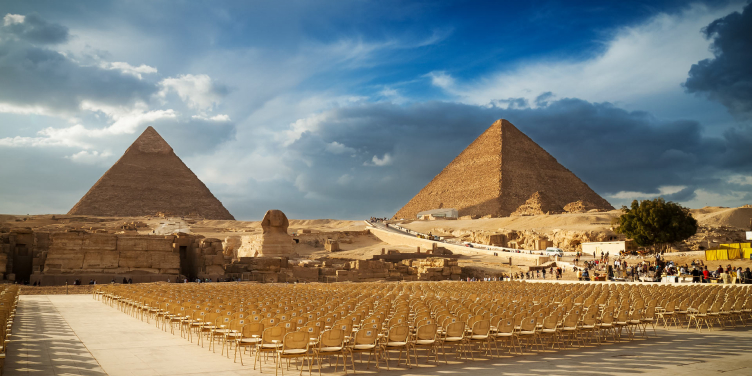
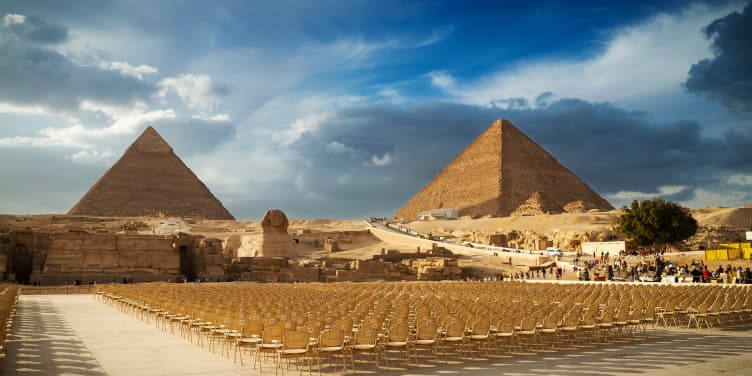
Add files via upload

diff --git a/index.html b/index.html
@@ -3,7 +3,8 @@
 <head>
   <meta charset="UTF-8">
   <meta name="viewport" content="width=device-width, initial-scale=1.0">
-  <title>Document</title>
+  <title>project-erv</title>
+  <link rel="shortcut icon" href="img/favicon/avatar1.ico" type="image/x-icon">
   <link rel="stylesheet" href="css/normalize.css">
   <link rel="stylesheet" href="css/fonts.css">
   <link rel="stylesheet" href="https://cdn.jsdelivr.net/npm/flatpickr/dist/flatpickr.min.css">
@@ -59,18 +60,34 @@
     <!-- ...............SECTION  INTRO.......... -->
     <section class="intro">
       <div class="intro__item">
-        <img src="img/intro/bg-banner1.jpg" alt="egpt">
+        <picture>
+          <source srcset="img/intro/bg-banner1.webp" type="image/webp">
+              <img src="img/transparent/ffff-0.8.png" data-src="img/intro/bg-banner1.jpg" alt="tur" class="lazyload" loading="lazy">
+        </picture>
+        <!-- <img src="img/intro/bg-banner1.jpg" alt="egpt"> -->
       </div>
 
       <div class="intro__item">
-        <img src="img/intro/bg-banner2.jpg" alt="egpt">
+        <picture>
+          <source srcset="img/intro/bg-banner2.webp" type="image/webp">
+              <img src="img/transparent/ffff-0.8.png" data-src="img/intro/bg-banner2.jpg" alt="tur" class="lazyload" loading="lazy">
+        </picture>
+        <!-- <img src="img/intro/bg-banner2.jpg" alt="egpt"> -->
       </div>
 
       <div class="intro__item">
-        <img src="img/intro/bg-banner3.jpg" alt="egpt">
+        <picture>
+          <source srcset="img/intro/bg-banner3.webp" type="image/webp">
+              <img src="img/transparent/ffff-0.8.png" data-src="img/intro/bg-banner3.jpg" alt="tur" class="lazyload" loading="lazy">
+        </picture>
+        <!-- <img src="img/intro/bg-banner3.jpg" alt="egpt"> -->
       </div>
       <div class="intro__item">
-        <img src="img/intro/bg-banner.jpg" alt="egpt">
+        <picture>
+          <source srcset="img/intro/bg-banner.webp" type="image/webp">
+              <img src="img/transparent/ffff-0.8.png" data-src="img/intro/bg-banner.jpg" alt="tur" class="lazyload" loading="lazy">
+        </picture>
+        <!-- <img src="img/intro/bg-banner.jpg" alt="egpt"> -->
       </div>
 
       <div class="intro__content">
@@ -274,7 +291,11 @@
               </div>
               <div class="advice__card-image">
                 <div class="advice__card-imgBx">
-                  <img src="img/advice/business-map1Sq2.png" alt="">
+                  <picture>
+                    <source srcset="img/advice/business-map1Sq2.webp" type="image/webp">
+                        <img src="img/transparent/ffff-0.8.png" data-src="img/advice/business-map1Sq2.png" alt="map" class="lazyload" loading="lazy">
+                  </picture>
+                  <!-- <img src="img/advice/business-map1Sq2.png" alt=""> -->
                 </div>
               </div>
             </div>
@@ -282,7 +303,11 @@
             <div class="advice__card-left card-bike">
               <div class="advice__card-image image-left">
                 <div class="advice__card-imgBybike">
-                  <img src="img/advice/tiny-2.png" alt="">
+                  <picture>
+                    <source srcset="img/advice/tiny-2.webp" type="image/webp">
+                        <img src="img/transparent/ffff-0.8.png" data-src="img/advice/tiny-2.png" alt="map" class="lazyload" loading="lazy">
+                  </picture>
+                  <!-- <img src="img/advice/tiny-2.png" alt=""> -->
                 </div>
               </div>
               <div class="advice__card-content-y">
@@ -340,7 +365,11 @@
             <div class="advice__card-left card-pin">
               <div class="advice__card-image image-left">
                 <div class="advice__card-imgBy">
-                  <img src="img/advice/tiny-4.png" alt="">
+                  <picture>
+                    <source srcset="img/advice/tiny-4.webp" type="image/webp">
+                        <img src="img/transparent/ffff-0.8.png" data-src="img/advice/tiny-4.png" alt="cvd" class="lazyload" loading="lazy">
+                  </picture>
+                  <!-- <img src="img/advice/tiny-4.png" alt=""> -->
                 </div>
               </div>
               <div class="advice__card-content-y">
@@ -386,7 +415,11 @@
               </div>
               <div class="advice__card-image card-pin-img">
                 <div class="advice__card-imgBx">
-                  <img src="img/advice/knife1.png" alt="knife">
+                  <picture>
+                    <source srcset="img/advice/knife1.webp" type="image/webp">
+                        <img src="img/transparent/ffff-0.8.png" data-src="img/advice/knife1.png" alt="knife" class="lazyload" loading="lazy">
+                  </picture>
+                  <!-- <img src="img/advice/knife1.png" alt="knife"> -->
                 </div>
               </div>
             </div>
@@ -394,7 +427,10 @@
             <div class="advice__card-left card-suitcase">
               <div class="advice__card-image image-suitcase">
                 <div class="advice__card-imgBx">
-                  <img src="img/advice/suitcase.png" alt="">
+                  <picture>
+                    <source srcset="img/advice/suitcase.webp" type="image/webp">
+                        <img src="img/transparent/ffff-0.8.png" data-src="img/advice/suitcase.png" alt="suitcase" class="lazyload" loading="lazy">
+                  </picture>
                 </div>
               </div>
               <div class="advice__card-content-y">
@@ -522,7 +558,10 @@
           <div class="nation__card-left">
 
             <div class="nation_card-image">
-              <img src="img/nation/country.jpg" alt="country">
+              <picture>
+                <source srcset="img/nation/country.webp" type="image/webp">
+                    <img src="img/transparent/ffff-0.8.png" data-src="img/nation/country.jpg" alt="country" class="lazyload" loading="lazy">
+              </picture>
             </div>
             <div class="nation_card-content">
               <p>
